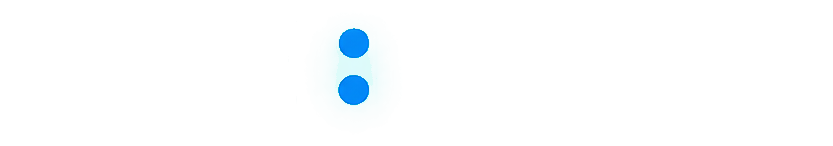
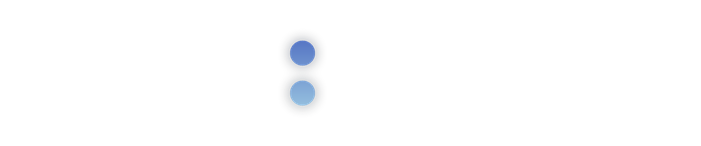
feat: rebuild the wordmark in Tektur with an ash-sky colon
- regenerate both wordmark PNGs: Tektur 600 caps, 0.04em tracking,
  colon redrawn as two clean dots with an ash blue-to-sky gradient
  and a soft glow (the old baked-in cyan halo is gone)
- add ?v=2 cache-buster to the wordmark URLs so browsers pick up
  the new asset without a hard refresh

Changed region(s): [[0.3894, 0.1918, 0.4494, 0.7397]]

diff --git a/client/src/components/Logo.test.ts b/client/src/components/Logo.test.ts
@@ -7,7 +7,7 @@ describe("Logo", () => {
   it("renders the inverse supplied wordmark with an accessible name by default", () => {
     const markup = renderToStaticMarkup(createElement(Logo, { className: "h-5" }));
 
-    expect(markup).toContain('src="/pre-view-wordmark-white.png"');
+    expect(markup).toContain('src="/pre-view-wordmark-white.png?v=2"');
     expect(markup).toContain('alt="Pre:View"');
     expect(markup).toContain("h-5");
   });
@@ -15,7 +15,7 @@ describe("Logo", () => {
   it("renders the supplied default wordmark on a light surface", () => {
     const markup = renderToStaticMarkup(createElement(Logo, { variant: "default" }));
 
-    expect(markup).toContain('src="/pre-view-wordmark.png"');
+    expect(markup).toContain('src="/pre-view-wordmark.png?v=2"');
     expect(markup).toContain('alt="Pre:View"');
   });
 });

diff --git a/client/src/components/BrandName.test.tsx b/client/src/components/BrandName.test.tsx
@@ -6,7 +6,7 @@ describe("BrandName", () => {
   it("renders the supplied inverse wordmark as an accessible inline image", () => {
     const markup = renderToStaticMarkup(<BrandName className="h-[1em]" />);
 
-    expect(markup).toContain('src="/pre-view-wordmark-white.png"');
+    expect(markup).toContain('src="/pre-view-wordmark-white.png?v=2"');
     expect(markup).toContain('alt="Pre:View"');
     expect(markup).toContain("h-[1em]");
     expect(markup).not.toContain("text-sky-400");

diff --git a/client/src/components/BrandName.tsx b/client/src/components/BrandName.tsx
@@ -7,9 +7,10 @@ type BrandNameProps = {
   variant?: BrandVariant;
 };
 
+// ?v= 쿼리는 워드마크 교체 시 브라우저 캐시를 무효화한다. 이미지가 바뀌면 값을 올린다.
 const WORDMARK_SOURCE: Record<BrandVariant, string> = {
-  default: "/pre-view-wordmark.png",
-  inverse: "/pre-view-wordmark-white.png",
+  default: "/pre-view-wordmark.png?v=2",
+  inverse: "/pre-view-wordmark-white.png?v=2",
 };
 
 export function BrandName({

diff --git a/client/src/components/Logo.tsx b/client/src/components/Logo.tsx
@@ -5,9 +5,10 @@ type LogoProps = {
   variant?: BrandVariant;
 };
 
+// ?v= 쿼리는 워드마크 교체 시 브라우저 캐시를 무효화한다. 이미지가 바뀌면 값을 올린다.
 const WORDMARK_SOURCE: Record<BrandVariant, string> = {
-  default: "/pre-view-wordmark.png",
-  inverse: "/pre-view-wordmark-white.png",
+  default: "/pre-view-wordmark.png?v=2",
+  inverse: "/pre-view-wordmark-white.png?v=2",
 };
 
 export default function Logo({
